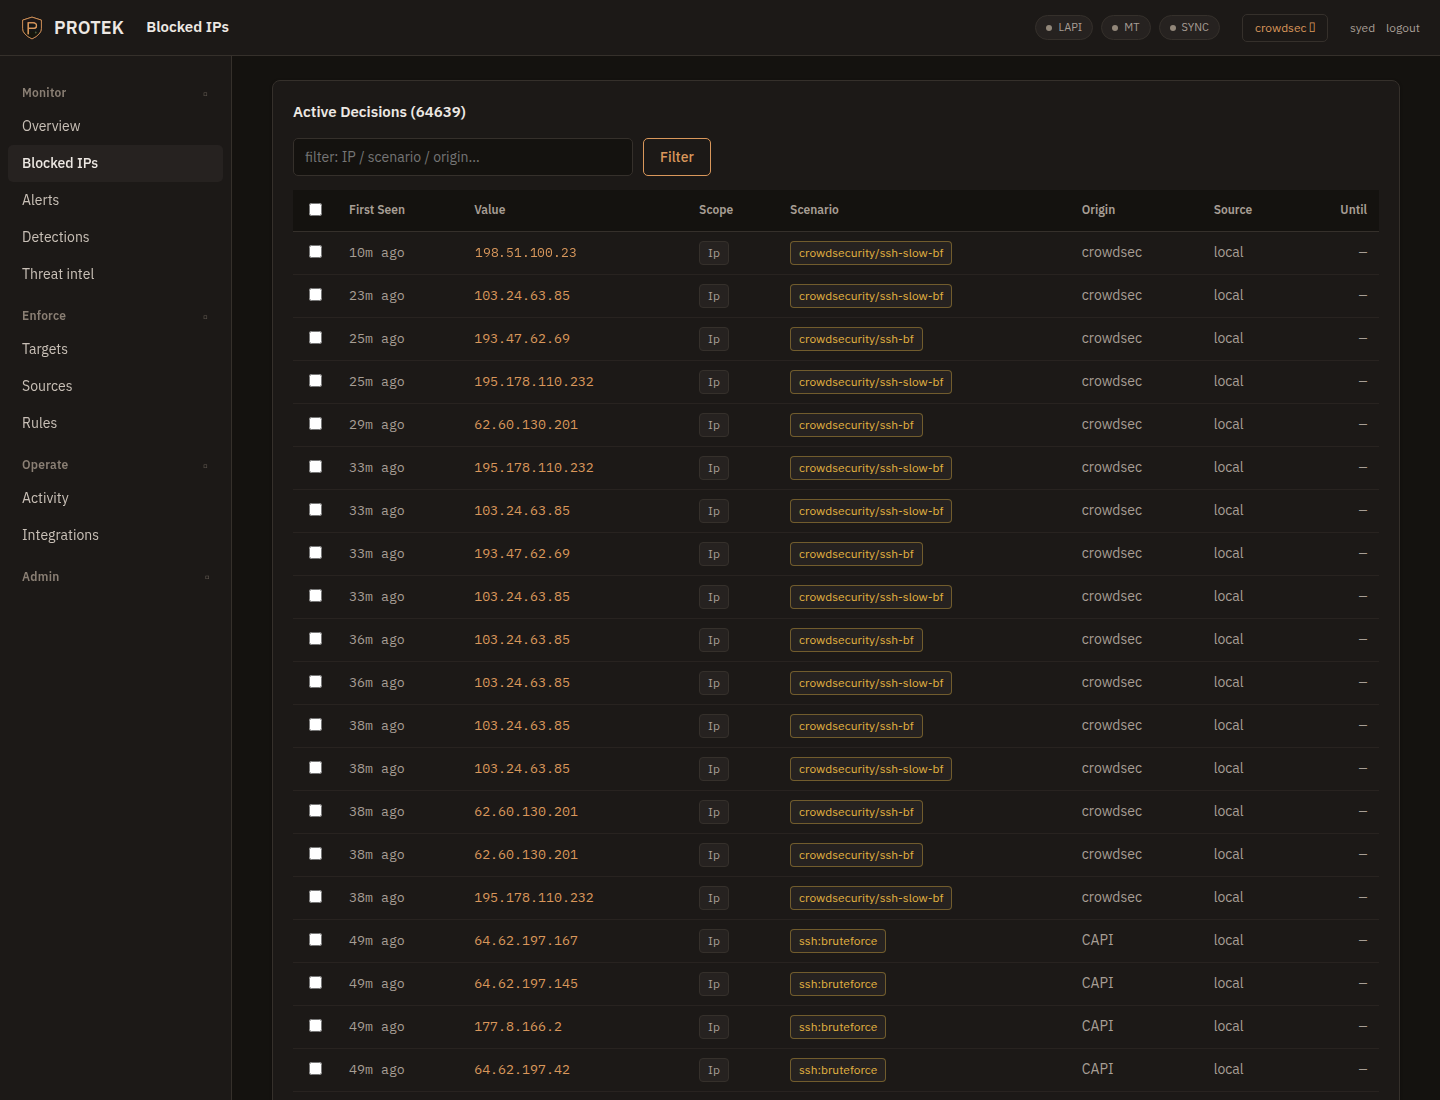
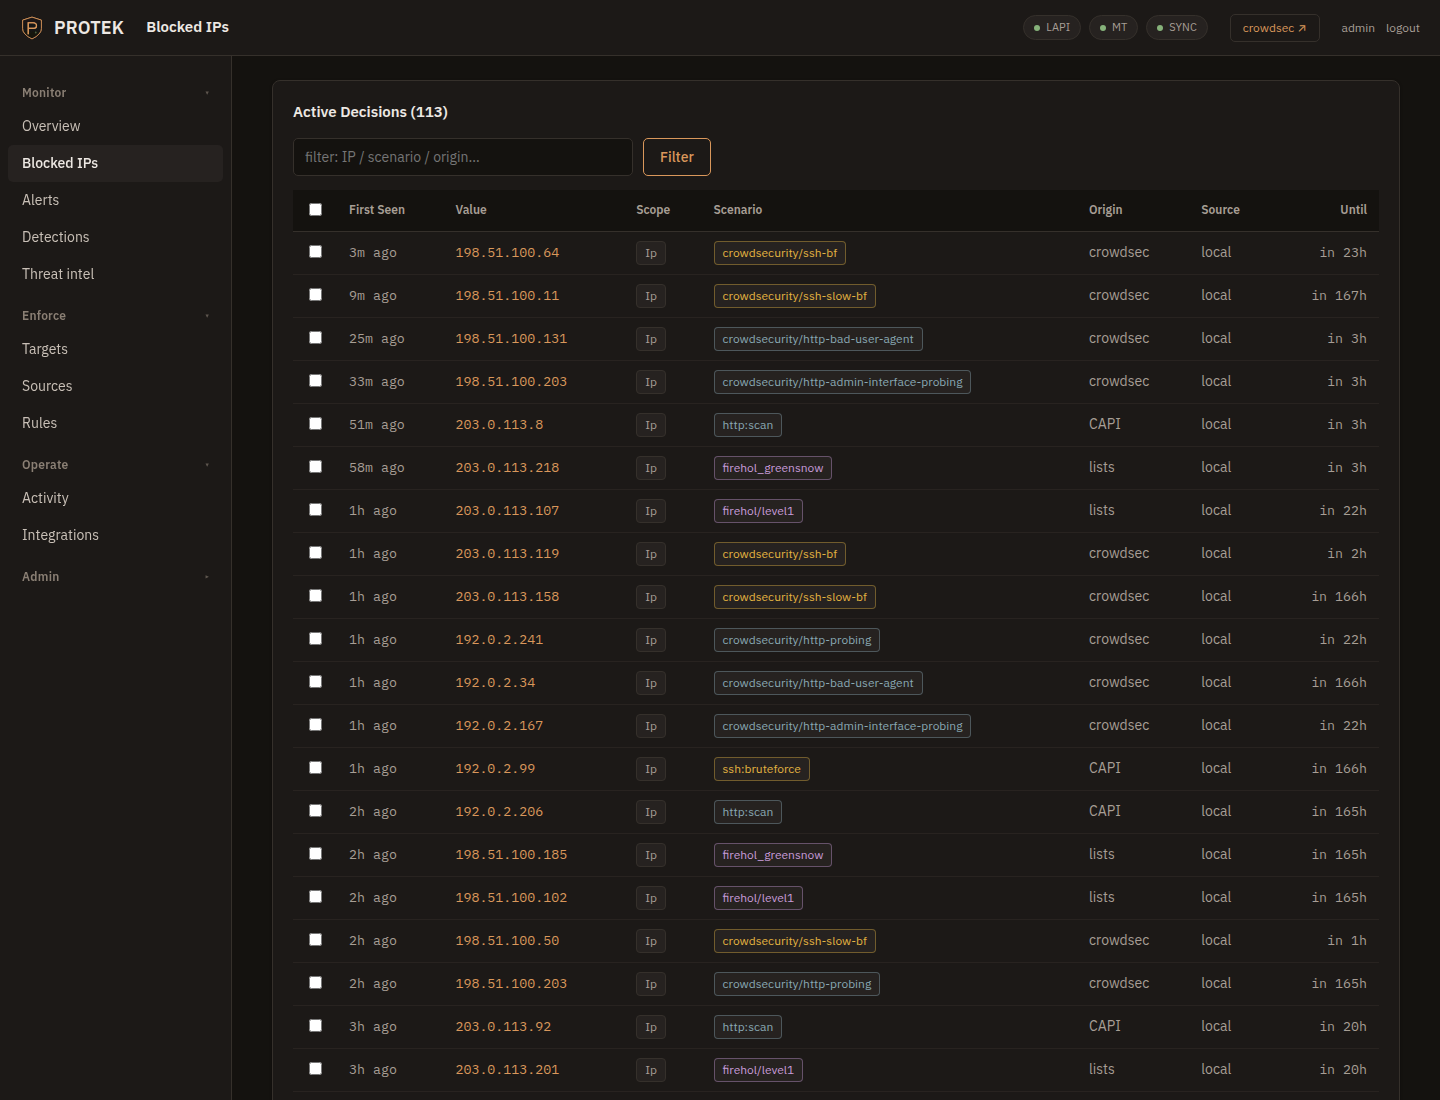
docs(screenshots): recapture all 16 from a demo instance
The README screenshots were taken from the live box and then redacted,
which is how the operator's IP slipped through in September. These come
from a throwaway instance with seeded demo data instead: RFC 5737 IPs,
documentation ASNs, placeholder router and users. File names are
unchanged, so the README links still work. The README note and
MEMORY.md describe the new setup.

diff --git a/MEMORY.md b/MEMORY.md
@@ -4,6 +4,34 @@ Append-only journal of what was built, fixed, and what's pending. Update at the 
 
 ---
 
+## 2026-11-03 — README screenshots recaptured from a demo instance
+
+All 16 `docs/screenshots/*.png` were replaced under the same names. They
+now come from a throwaway instance with seeded demo data instead of the
+live box, so no operator data can reach them however a page changes.
+
+- **How:** rsync the code to a temp dir without `.env`, `*.db`, `.git`,
+  `venv`, `.poller.lock` or `docs/HOSTS.local.md`, because ROOT-relative
+  paths (lock, default DB) must not point at the live checkout. Stub
+  `dotenv.load_dotenv`, set `PROTEK_DB_PATH` to a temp file, and point
+  `CROWDSEC_LAPI_URL` at an unresolvable host. Before `import app`, stub
+  `Poller.start`, `GeoWorker.start`, `IntelWorker.start` and
+  `siem.get_siem`, and swap `mikrotik.MikroTik` for a fake.
+- **Gotchas:** `poller` imports the bouncer adapters, which bind the real
+  `MikroTik` before a later patch, so swap every module's reference. The
+  MT top-bar pill reads `app._mt_quick_ok()`. The Alerts page shows a
+  "machine credentials required" banner unless both
+  `CROWDSEC_MACHINE_LOGIN` and `CROWDSEC_MACHINE_PASSWORD` are set. Insert
+  seed rows oldest first: the tables sort by id, the way the poller
+  writes them.
+- **Seeding:** documentation IPs and ASNs, a geo row per IP for the map,
+  a week of expired decisions so the hour-of-day heatmap fills, and
+  `first_run_done` / `onboarding.skipped` to keep the setup prompts away.
+  Log in through a demo-only route that sets the same session keys as
+  the real login.
+- Before saving, every page's text was scanned for the
+  `docs/HOSTS.local.md` values and the operator IPs. There were no hits.
+
 ## 2026-10-30 — Google sign-in now checks the ID token's audience
 
 `google_auth.complete()` passed `claims_options` with only `iss`, and Authlib only

diff --git a/README.md b/README.md
@@ -183,14 +183,11 @@ Each target has its own dry-run flag, batch cap, and per-stage timing. Multiple 
 
 ## Screenshots
 
-> Screenshots regenerated 2026-09-04 against the warm theme.
->
-> Sanitisation: this instance's own infrastructure identifiers (router endpoint,
-> host addresses, RouterOS identity and version) and the operator's own IPs are
-> replaced with RFC 5737 / RFC 3849 documentation addresses and generic names.
-> Attacker IPs are shown as-is — they are public
-> CrowdSec blocklist data, not operator infrastructure. No secret is rendered by
-> any page: credential fields are write-only and masked to `•••• <last4>`.
+> Screenshots regenerated 2026-11-03 from a throwaway instance with demo data,
+> not from a live deployment. Every IP is from the RFC 5737 documentation
+> ranges and every ASN from the 64496–64511 documentation range; the router,
+> hosts, users and credentials are placeholders. No secret is rendered by any
+> page anyway: credential fields are write-only and masked to `•••• <last4>`.
 
 ### Dashboard — overview
 ![dashboard](docs/screenshots/dashboard.png)
